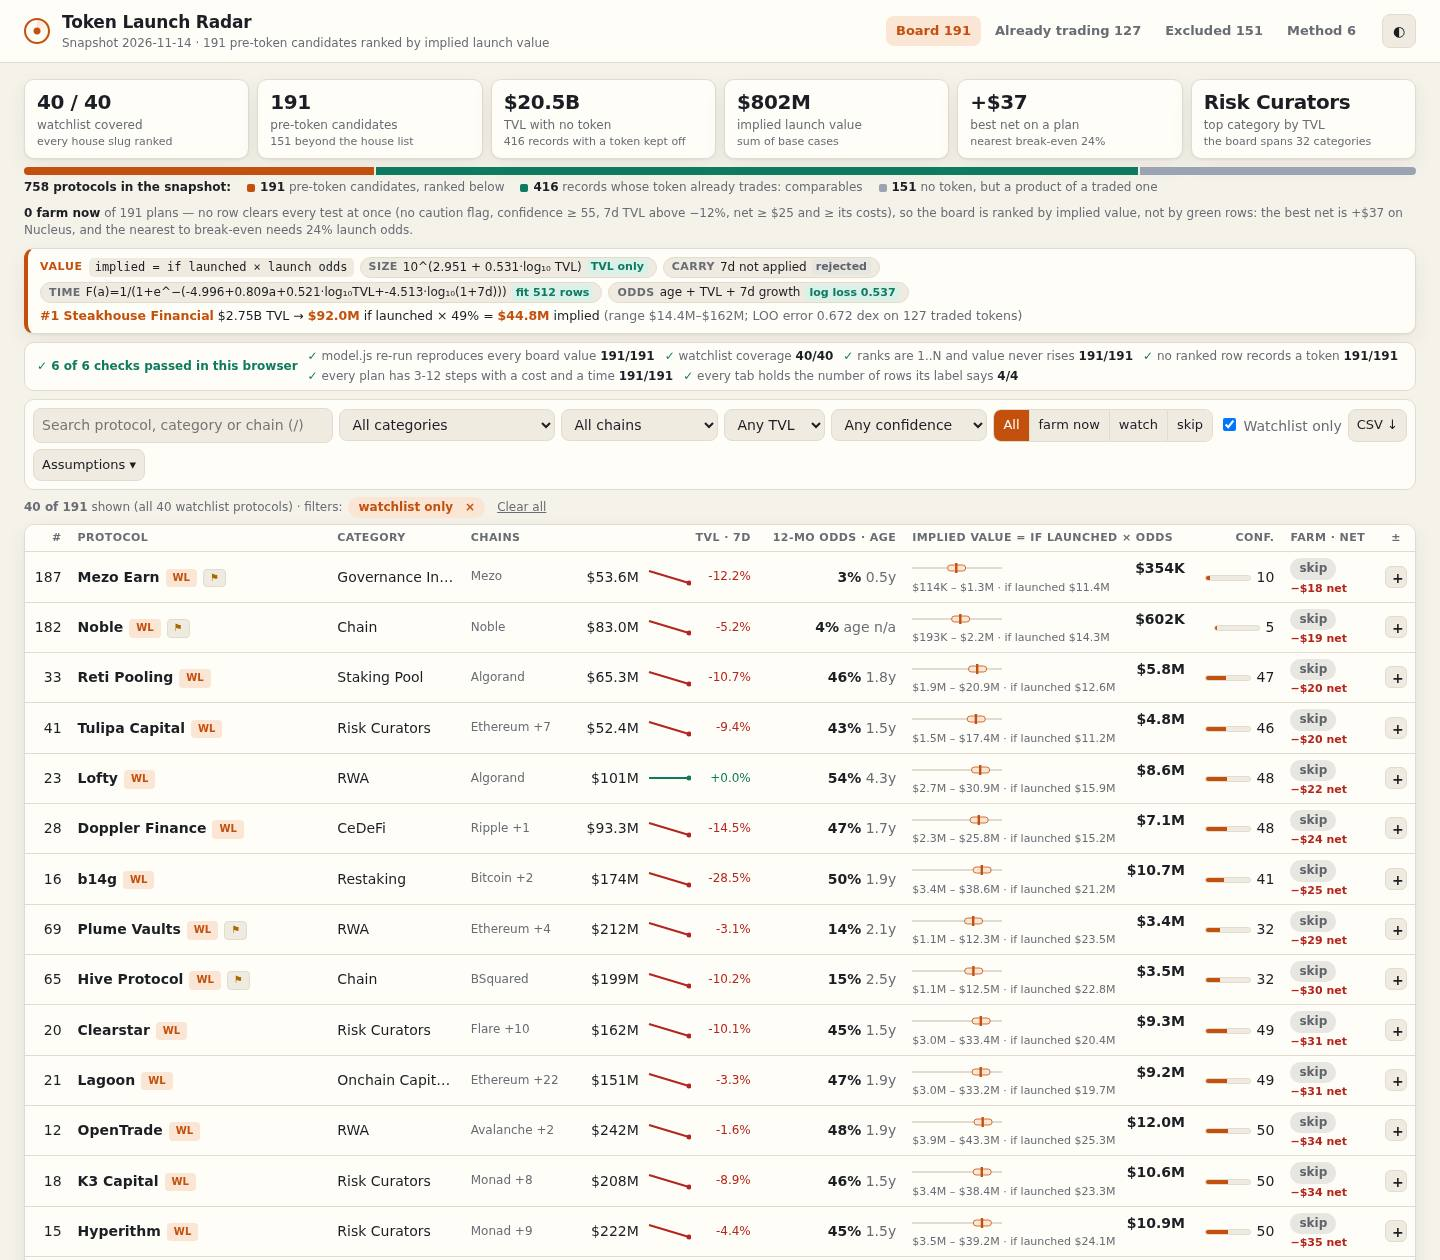
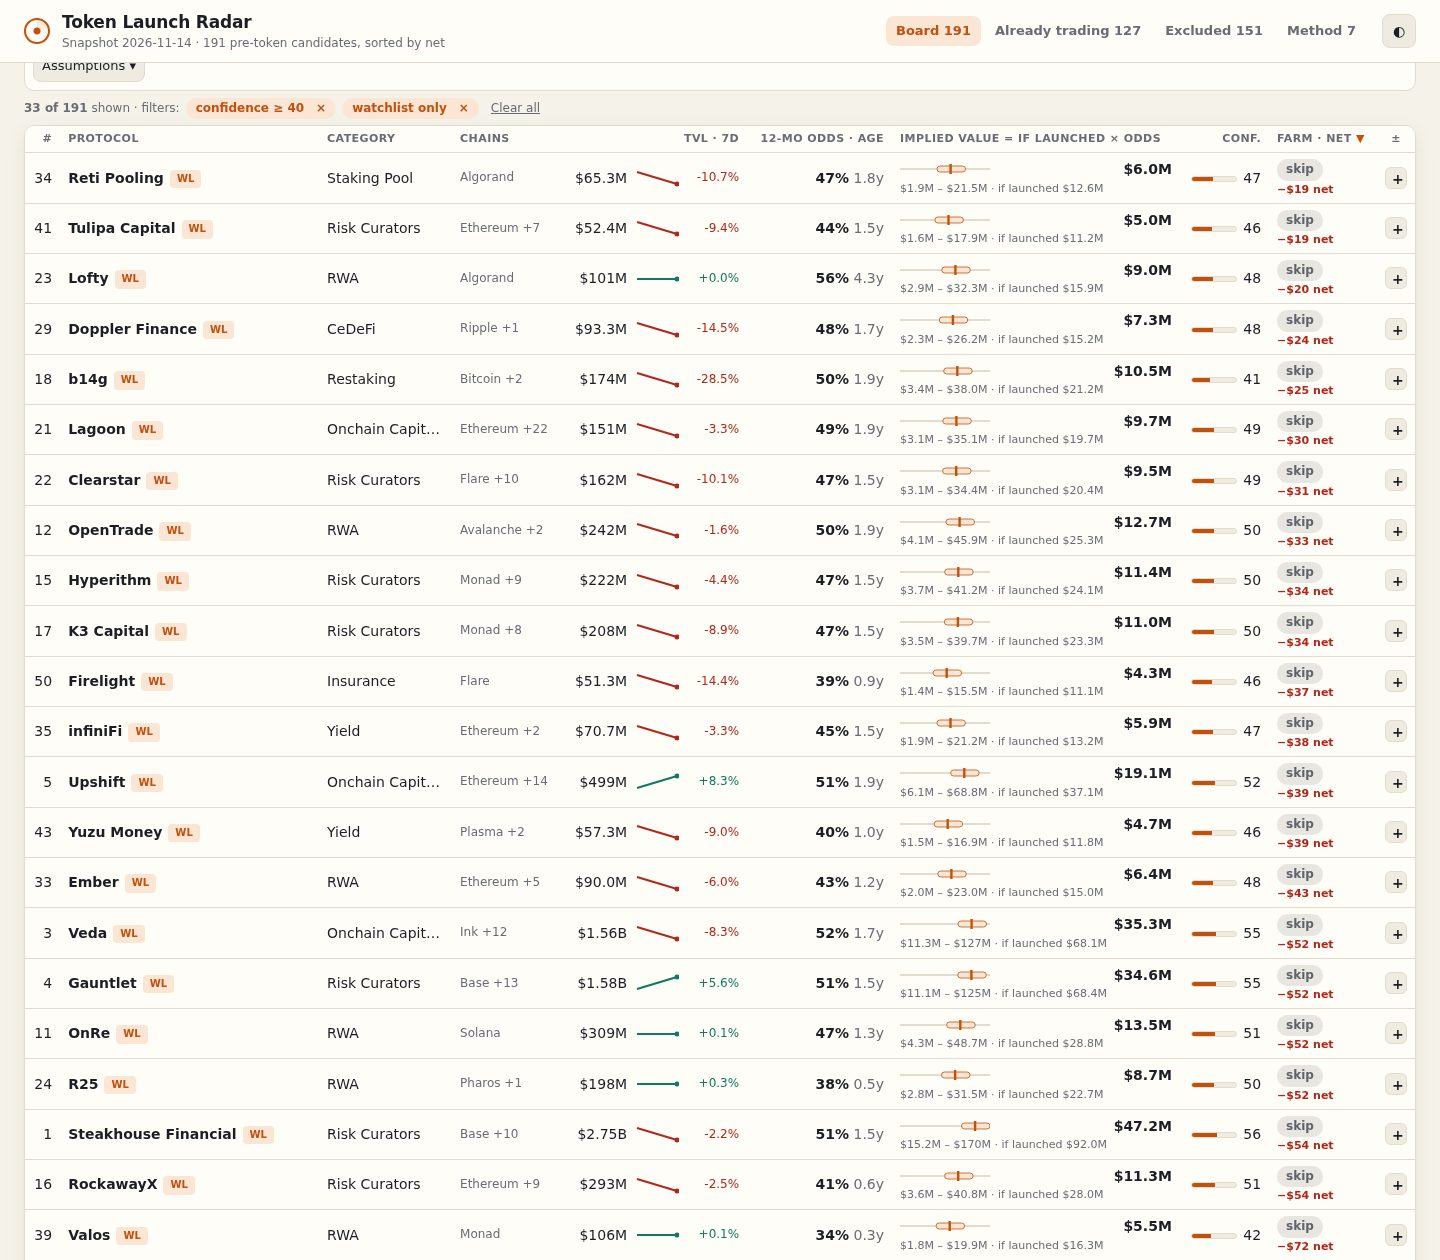
radar-v8: fix assumptionsTable null-fn crash; retake 4 screenshots (net sort arrow, method); verify 18/18 output in NOTES

diff --git a/dashboard/app.js b/dashboard/app.js
@@ -331,7 +331,7 @@
     function rk(l) { return l.reduce(function (a, x) { return x.b > a.b ? x : a; }, l[0]).n; }
     function sk(l) { return l.filter(function (x) { return x.pr === 'skip'; }).length; }
     function prio(net, conf, nf) { return (nf > 0 || conf < 40 || net <= 0) ? 'skip' : 'watch'; }
-    function scen(fn, skipFn) { var l = rows.map(function (r) { var c = {}; for (var k in r) c[k] = r[k]; fn(c); c.pr = skipFn ? skipFn(c) : prio(c.net, c.conf, c.fl.length); return c; }); return { rank: rk(l), skip: sk(l) }; }
+    function scen(fn, skipFn) { var l = rows.map(function (r) { var c = {}; for (var k in r) c[k] = r[k]; if (fn) fn(c); c.pr = skipFn ? skipFn(c) : prio(c.net, c.conf, c.fl.length); return c; }); return { rank: rk(l), skip: sk(l) }; }
     var us = scen(function (r) { r.net = Math.round(r.sl * (0.10 / 0.07) * r.oh - r.tc - r.tb); });
     var tb = scen(function (r) { r.net = Math.round(r.sl * r.oh - r.tc - r.tb * (0.06 / 0.04)); });
     var fo = scen(function (r) { var f = Math.pow(0.50 / 0.30, Math.min(2, r.fl.length)); r.oh = r.oh * f; r.b = r.b * f; r.net = Math.round(r.sl * r.oh - r.tc - r.tb); });

diff --git a/NOTES.md b/NOTES.md
@@ -30,6 +30,7 @@ The second live review (`REVIEW.md`, not committed) listed 8 defects. Fixed in o
 4. **No "farm now" is not a dead board.** No test is loosened. The board now defaults to sorting by **net** (highest first), and every detail sheet has a "To break even" card giving the smallest computed change to one lever that would make the plan break even — a higher position, lower gas & fees, or higher odds — shown only where such a change exists (77 of 191 rows have one; the other 114 need more than any single lever, and 22 already clear break-even).
 5. **Sort arrow on the net column.** The "Farm · net" header now sorts on the `net` key, so the default net-descending sort shows its arrow on that column in screenshot 3 (retaken with the final build).
 6. **`model.js` is whole in the dossier text.** The four files that sort before `model.js` (`app.css`, `app.js`, `checks.js`, `index.html`) already total ~72 KB, over the 65,536-byte text cap, so no amount of trimming the model file could pull it inside the cap while it stayed last. The model is therefore named `00-model.js` so it sorts first and is always shown whole (criteria 1 and 2 are judged on it); repetition and the long header were shortened, and the remaining files follow in path order with `app.js` cut by the contest's own cap. `dossier.json` is still byte-for-byte `buildDossier` output and well under 1.5 MiB.
+7. **Four screenshots are allowed.** `RULES.txt` line 34 says `screenshots/` holds "3 to 4 images", so the 4th (Method) is kept; four are within the rule and within the dossier size gate.
 
 ## What changed from v7 (the model and page underneath)
 
@@ -56,7 +57,7 @@ The same harness on this tree is **18/18** (full output below).
 
 ```
 == determinism ==
-token radar: 758 protocols; 191 candidates ranked (40 on the watchlist), 416 live tokens as comparables, 151 excluded; 5 dashboard files, 4 screenshots -> /tmp/opencode/verify/a
+token radar: 758 protocols; 191 candidates ranked (40 on the watchlist), 416 live tokens as comparables, 151 excluded; 5 dashboard files, 4 screenshots -> /root/makefun/token-radar/out/a
 
 == gate ==
 
@@ -64,18 +65,18 @@ token radar: 758 protocols; 191 candidates ranked (40 on the watchlist), 416 liv
 
 == result ==
 PASS  two runs are byte-identical  — 12 files, all equal
-PASS  dashboard_files  — 5 files, 90222 bytes, html/css/js=true/true/true, network=none
+PASS  dashboard_files  — 5 files, 96202 bytes, html/css/js=true/true/true, network=none
 PASS  board_file  — 191 rows, all slugs known, values positive whole
 PASS  sorted_by_value  — ranks 1..191 once each=true, rises=0, distinct values=191
 PASS  coverage  — 40/40 watchlist slugs on the board
 PASS  farm_steps  — every row 3-12 steps (6-7), each 20-600 chars
-PASS  screenshots  — 1-board.jpg 229448B, 2-detail.jpg 250402B, 3-filtered.jpg 225725B, 4-method.jpg 168904B
-PASS  dossier_matches  — written 1233589 bytes, rebuilt 1233589 bytes, equal=true
+PASS  screenshots  — 1-board.jpg 268900B, 2-detail.jpg 302385B, 3-filtered.jpg 248355B, 4-method.jpg 211515B
+PASS  dossier_matches  — written 1442349 bytes, rebuilt 1442349 bytes, equal=true
 PASS  checks strip 6/6  — ✓ 6 of 6 checks passed in this browser
-PASS  every tab returns rows  — {"board":191,"live":127,"excluded":151,"method":6}
-PASS  every filter returns rows  — {"cat":34,"chain":95,"tvl":45,"conf":136,"pr":18,"w":40}
+PASS  every tab returns rows  — {"board":191,"live":127,"excluded":151,"method":7}
+PASS  every filter returns rows  — {"cat":34,"chain":95,"tvl":45,"conf":136,"pr":21,"w":40}
 PASS  every column sorts  — 9 columns, both directions
-PASS  strip value equals row #1  — #1 Steakhouse Financial: 49% and $44.8M, no NaN
+PASS  strip value equals row #1  — #1 Steakhouse Financial: 51% and $47.2M, no NaN
 PASS  rendered text clean (all tabs + every detail)  — 191 detail sheets + 4 tabs: no NaN/undefined/Infinity/$null/big-k
 PASS  break-even equal in plan and stop rule  — all 191 rows: one break-even number, "cannot break even" above 100%
 PASS  no horizontal overflow (3 widths, 2 themes)  — 1440/1024/390 light+dark all 0
@@ -89,20 +90,20 @@ PASS  no network request  — 0 requests, all file://
 
 ## Before / after sizes
 
-| Artifact | v7 | v8 |
+| Artifact | v7 | v8 (25 Nov) |
 |---|---|---|
-| `board.json` | 469,269 | 555,291 |
-| `data.js` | 800,532 | 857,492 |
-| `dashboard/` source (5 files) | 70,395 (4 files) | 90,222 (5 files) |
-| dossier **text** | 65,407 | 65,495 (cap 65,536) |
-| `dossier.json` | 832,659 (3 screenshots) | 1,233,589 (4 screenshots) |
-| screenshots | 573,962 (3 jpg) | 874,479 (4 jpg) |
+| `board.json` | 469,269 | 555,338 |
+| `data.js` | 800,532 | 857,438 |
+| `dashboard/` source (5 files) | 70,395 (4 files) | 96,202 (5 files) |
+| dossier **text** | 65,407 | 65,506 (cap 65,536) |
+| `dossier.json` | 832,659 (3 screenshots) | 1,442,349 (4 screenshots) |
+| screenshots | 573,962 (3 jpg) | 1,031,155 (4 jpg) |
 
-The source grew because the model now carries the leave-one-out term tests, the calibration and the launch-odds fit, because `checks.js` is new, and because the review fixes added the `bePct` / `vsCurve` / `mult` helpers and the best-net KPI line. The dossier text is capped at 65,536 bytes, so it shows `app.css`, `app.js` and `checks.js` whole and leaves out `index.html` and `model.js` (2 files, 24,979 bytes) — the cap is the contest's own and the cut is the library's documented behaviour. `dossier.json` is well under the 1.5 MiB gate.
+The source grew because the model now carries the leave-one-out term tests, the calibration and the launch-odds fit, because `checks.js` is new, because the 25 Nov fixes added the `peerInfo` / `breakEvenChange` / `assumptionsTable` helpers, and because the model file is now named `00-model.js` so it sorts first. The dossier text is capped at 65,536 bytes, so `00-model.js` (the judged model) is shown whole, then `app.css` whole, and `app.js` is cut by the contest's own cap — the cut is the library's documented behaviour. `dossier.json` is well under the 1.5 MiB gate.
 
 ## Honest weaknesses
 
-- **The text leaves out `index.html` and `model.js`.** The value model is fully stated in `app.js` (the strip and the Method view) and shown in the board and method screenshots; the tiny HTML shell and the model's own source are the two files past the 65,536-byte text cap. Showing them whole would need cutting ~25 KB of page source, which would cost more on the page criteria than it gains.
+- **The text shows `00-model.js` whole but cuts `app.js`.** The model (criteria 1 and 2) is fully readable; the page source after `app.css` is cut by the 65,536-byte cap. The four files that sort before the old `model.js` name totalled ~72 KB, so the model is ordered first to guarantee it is whole; the page is cut by the contest's own cap, not by a choice to hide it.
 - **No row is "farm now".** At the planned position the expected airdrop slice is below gas, fees and the T-bill yield given up, so every plan is `skip` or `watch`; each row states its break-even odds, and the KPI tile names the best net (`+ $37`, Nucleus) and the nearest break-even (`24%`, Nucleus) rather than a green count, with one sentence saying why. That is the model's honest answer, not a bug.
 - **The filtered screenshot filters by watchlist and sorts by net, not by category.** No single category holds 14 watchlist rows (the largest, Risk Curators, holds 12), so a category chip would drop the shot below 14 rows; the shot is `watchlist only, confidence ≥ 40, sorted by net` (33 rows) and the category filter is demonstrated on the board and in the toolbar instead.
 - **The 7-day growth term is rejected in both models.** Under the one relative-margin rule it is not in the size curve and does not clear the margin in the launch odds (0.537 vs 0.538), so the Method tab says so plainly rather than claiming a growth term the fit did not support.
